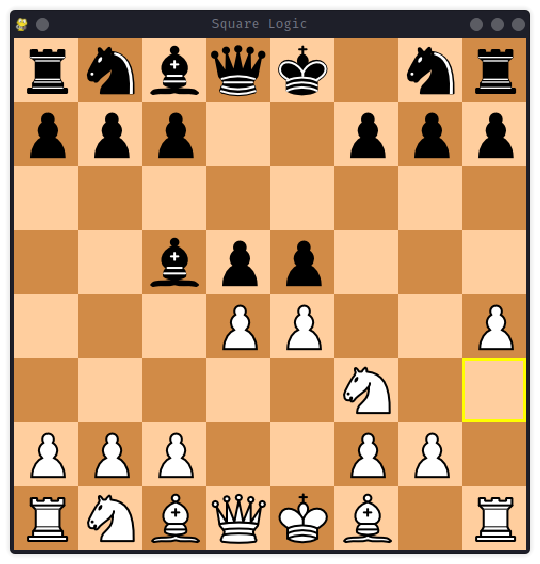
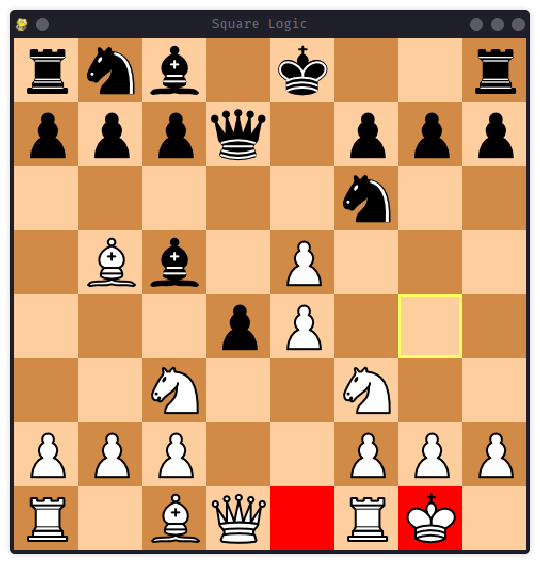
Updated README.md

diff --git a/README.md b/README.md
@@ -6,8 +6,10 @@ A simple yet interactive chess game built using **Python** and **Pygame**. This 
 
 - **Interactive Chessboard** – Click-based movement with move validation.  
 - **Move Validation** – Checks for legal moves and prevents invalid ones.  
-- **Undo Move** – Press `Backspace` to undo the last move.  
-- **Hover & Selection Highlights** – Enhances visual clarity of moves.  
+- **Undo Move** – Press `Backspace` to undo the last move.
+- **Reset Board** - Press `r` to reset the board.  
+- **Hover & Selection Highlights** – Enhances visual clarity of moves.
+- **Last Move Highlights** - Shows the last move played  
 - **Pawn Promotion** – Automatically promotes pawns (default: Queen).  
 - **Smooth Animations** – Runs at up to 144 FPS for fluid visuals.  
 
@@ -30,7 +32,8 @@ A simple yet interactive chess game built using **Python** and **Pygame**. This 
 ## 🎮 How to Play  
 
 - Click on a piece to select it, then click on a valid square to move.  
-- Press `Backspace` to undo the last move.  
+- Press `Backspace` to undo the last move.
+- Press `r` to reset the board  
 - Hovering over squares will highlight them for better visibility.  
 
 ## 📁 Project Structure  
@@ -67,6 +70,9 @@ SquareLogic/
 
 ### Selected Square and Move Highlighting
 ![Highlighting](screenshot/highlighting.png)
+
+### Checkmate
+![Checkmate](screenshot/Checkmate.png)
 ## 🚀 Future Improvements  
 
 - Add **AI opponent** for single-player mode.   
